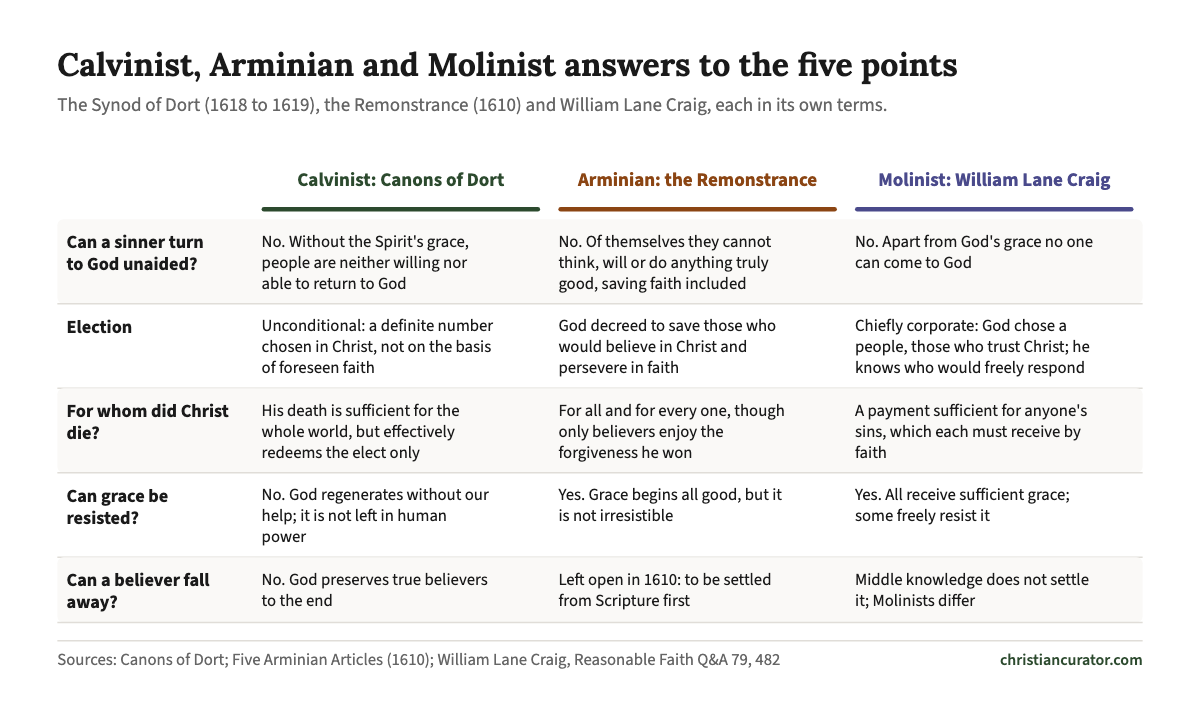
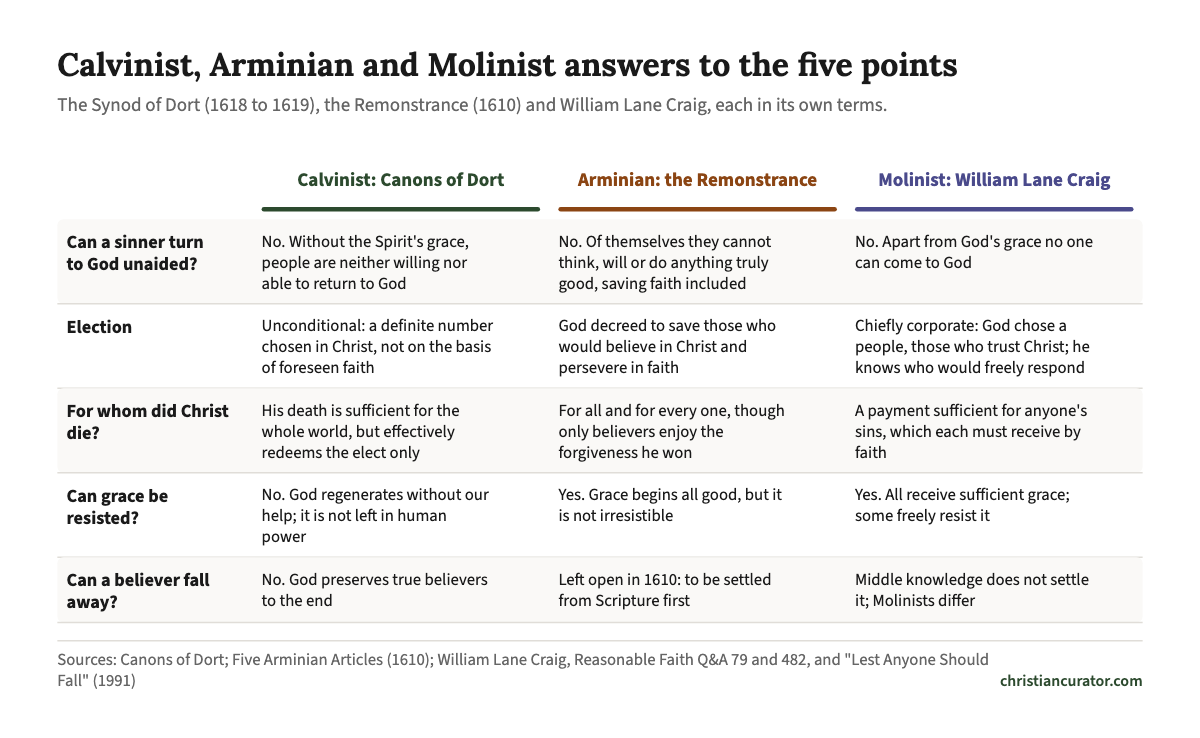
Predestination: source the Molinist perseverance cell to Craig himself
The cell ("Middle knowledge does not settle it; Molinists differ") rested
on Philip Congdon, a Free Grace critic, whose line was about Keathley's five
points in general; Q&A 482 says nothing on perseverance. Craig's 1991 paper
"Lest Anyone Should Fall" says it outright: "Molinism does not imply the
doctrine of the perseverance of the saints." Congdon and Paul Helm (a
Reformed critic used for the middle knowledge line, which Craig's Q&A 79
already covers) are dropped, so the Molinist column cites only a Molinist.
Note and share image source line updated; share image redrawn.

diff --git a/docs/topics/predestination-free-will/index.html b/docs/topics/predestination-free-will/index.html
@@ -508,14 +508,14 @@ main.cc-prose { max-width: 740px; margin: 0 auto; padding-top: 1.5rem; }
 <h2 class="cc-timeline-label">Side by Side</h2>
 <h3 class="cc-timeline-title">Dort, the Remonstrance and Molinism on the five disputed points</h3><p class="cc-timeline-intro">The five points of Calvinism began as the Synod of Dort&#x27;s answer to the five articles of the Remonstrants in 1610. Molinism adds a different question: what God knows about the free choices people would make. Each column follows its own source.</p>
 <figure class="cc-chart cc-timeline-fig">
-<svg class="cc-chart-svg cc-timeline-svg cc-chart-wide" viewBox="0 0 740 423" role="img" aria-labelledby="five-points-matrix-t five-points-matrix-d" font-family="'Source Sans 3', sans-serif"><title id="five-points-matrix-t">Calvinist, Arminian and Molinist answers to the five points</title><desc id="five-points-matrix-d">Calvinist: Canons of Dort. Can a sinner turn to God unaided?: No. Without the Spirit&#x27;s grace, people are neither willing nor able to return to God; Election: Unconditional: a definite number chosen in Christ, not on the basis of foreseen faith; For whom did Christ die?: His death is sufficient for the whole world, but effectively redeems the elect only; Can grace be resisted?: No. God regenerates without our help; it is not left in human power; Can a believer fall away?: No. God preserves true believers to the end. Arminian: the Remonstrance. Can a sinner turn to God unaided?: No. Of themselves they cannot think, will or do anything truly good, saving faith included; Election: God decreed to save those who would believe in Christ and persevere in faith; For whom did Christ die?: For all and for every one, though only believers enjoy the forgiveness he won; Can grace be resisted?: Yes. Grace begins all good, but it is not irresistible; Can a believer fall away?: Left open in 1610: to be settled from Scripture first. Molinist: William Lane Craig. Can a sinner turn to God unaided?: No. Apart from God&#x27;s grace no one can come to God; Election: Chiefly corporate: God chose a people, those who trust Christ; he knows who would freely respond; For whom did Christ die?: A payment sufficient for anyone&#x27;s sins, which each must receive by faith; Can grace be resisted?: Yes. All receive sufficient grace; some freely resist it; Can a believer fall away?: Middle knowledge does not settle it; Molinists differ.</desc><rect width="740" height="423" fill="#fff"/><text x="14.0" y="26.0" font-size="21" fill="#1a1a1a" font-weight="700" font-family="'Lora', Georgia, serif">Calvinist, Arminian and Molinist answers to the five points</text><text x="14.0" y="49.2" font-size="12.5" fill="#666">The Synod of Dort (1618 to 1619), the Remonstrance (1610) and William Lane Craig, each in its own terms.</text><text x="239.3" y="98.6" font-size="12.5" fill="#2C4A2E" font-weight="700" text-anchor="middle">Calvinist: Canons of Dort</text><rect x="148.0" y="112.2" width="182.7" height="3" rx="1.5" fill="#2C4A2E"/><text x="434.0" y="98.6" font-size="12.5" fill="#8B4513" font-weight="700" text-anchor="middle">Arminian: the Remonstrance</text><rect x="342.7" y="112.2" width="182.7" height="3" rx="1.5" fill="#8B4513"/><text x="628.7" y="98.6" font-size="12.5" fill="#4A4A8B" font-weight="700" text-anchor="middle">Molinist: William Lane Craig</text><rect x="537.3" y="112.2" width="182.7" height="3" rx="1.5" fill="#4A4A8B"/><rect x="14.0" y="120.2" width="712.0" height="55.4" rx="4" fill="#faf9f7"/><text x="20.0" y="139.2" font-size="12" fill="#1a1a1a" font-weight="700">Can a sinner turn</text><text x="20.0" y="153.7" font-size="12" fill="#1a1a1a" font-weight="700">to God unaided?</text><text x="148.0" y="138.2" font-size="11" fill="#1a1a1a">No. Without the Spirit&#x27;s grace,</text><text x="148.0" y="152.1" font-size="11" fill="#1a1a1a">people are neither willing nor</text><text x="148.0" y="165.8" font-size="11" fill="#1a1a1a">able to return to God</text><text x="342.7" y="138.2" font-size="11" fill="#1a1a1a">No. Of themselves they cannot</text><text x="342.7" y="152.1" font-size="11" fill="#1a1a1a">think, will or do anything truly</text><text x="342.7" y="165.8" font-size="11" fill="#1a1a1a">good, saving faith included</text><text x="537.3" y="138.2" font-size="11" fill="#1a1a1a">No. Apart from God&#x27;s grace no one</text><text x="537.3" y="152.1" font-size="11" fill="#1a1a1a">can come to God</text><line x1="14.0" x2="726.0" y1="175.7" y2="175.7" stroke="#e0ddd8"/><text x="20.0" y="194.7" font-size="12" fill="#1a1a1a" font-weight="700">Election</text><text x="148.0" y="193.7" font-size="11" fill="#1a1a1a">Unconditional: a definite number</text><text x="148.0" y="207.5" font-size="11" fill="#1a1a1a">chosen in Christ, not on the basis</text><text x="148.0" y="221.2" font-size="11" fill="#1a1a1a">of foreseen faith</text><text x="342.7" y="193.7" font-size="11" fill="#1a1a1a">God decreed to save those who</text><text x="342.7" y="207.5" font-size="11" fill="#1a1a1a">would believe in Christ and</text><text x="342.7" y="221.2" font-size="11" fill="#1a1a1a">persevere in faith</text><text x="537.3" y="193.7" font-size="11" fill="#1a1a1a">Chiefly corporate: God chose a</text><text x="537.3" y="207.5" font-size="11" fill="#1a1a1a">people, those who trust Christ; he</text><text x="537.3" y="221.2" font-size="11" fill="#1a1a1a">knows who would freely respond</text><line x1="14.0" x2="726.0" y1="231.1" y2="231.1" stroke="#e0ddd8"/><rect x="14.0" y="231.1" width="712.0" height="55.4" rx="4" fill="#faf9f7"/><text x="20.0" y="250.1" font-size="12" fill="#1a1a1a" font-weight="700">For whom did Christ</text><text x="20.0" y="264.4" font-size="12" fill="#1a1a1a" font-weight="700">die?</text><text x="148.0" y="249.1" font-size="11" fill="#1a1a1a">His death is sufficient for the</text><text x="148.0" y="262.9" font-size="11" fill="#1a1a1a">whole world, but effectively</text><text x="148.0" y="276.7" font-size="11" fill="#1a1a1a">redeems the elect only</text><text x="342.7" y="249.1" font-size="11" fill="#1a1a1a">For all and for every one, though</text><text x="342.7" y="262.9" font-size="11" fill="#1a1a1a">only believers enjoy the</text><text x="342.7" y="276.7" font-size="11" fill="#1a1a1a">forgiveness he won</text><text x="537.3" y="249.1" font-size="11" fill="#1a1a1a">A payment sufficient for anyone&#x27;s</text><text x="537.3" y="262.9" font-size="11" fill="#1a1a1a">sins, which each must receive by</text><text x="537.3" y="276.7" font-size="11" fill="#1a1a1a">faith</text><line x1="14.0" x2="726.0" y1="286.5" y2="286.5" stroke="#e0ddd8"/><text x="20.0" y="305.5" font-size="12" fill="#1a1a1a" font-weight="700">Can grace be</text><text x="20.0" y="319.9" font-size="12" fill="#1a1a1a" font-weight="700">resisted?</text><text x="148.0" y="304.5" font-size="11" fill="#1a1a1a">No. God regenerates without our</text><text x="148.0" y="318.3" font-size="11" fill="#1a1a1a">help; it is not left in human</text><text x="148.0" y="332.1" font-size="11" fill="#1a1a1a">power</text><text x="342.7" y="304.5" font-size="11" fill="#1a1a1a">Yes. Grace begins all good, but it</text><text x="342.7" y="318.3" font-size="11" fill="#1a1a1a">is not irresistible</text><text x="537.3" y="304.5" font-size="11" fill="#1a1a1a">Yes. All receive sufficient grace;</text><text x="537.3" y="318.3" font-size="11" fill="#1a1a1a">some freely resist it</text><line x1="14.0" x2="726.0" y1="341.9" y2="341.9" stroke="#e0ddd8"/><rect x="14.0" y="341.9" width="712.0" height="42.8" rx="4" fill="#faf9f7"/><text x="20.0" y="360.9" font-size="12" fill="#1a1a1a" font-weight="700">Can a believer fall</text><text x="20.0" y="375.2" font-size="12" fill="#1a1a1a" font-weight="700">away?</text><text x="148.0" y="359.9" font-size="11" fill="#1a1a1a">No. God preserves true believers</text><text x="148.0" y="373.7" font-size="11" fill="#1a1a1a">to the end</text><text x="342.7" y="359.9" font-size="11" fill="#1a1a1a">Left open in 1610: to be settled</text><text x="342.7" y="373.7" font-size="11" fill="#1a1a1a">from Scripture first</text><text x="537.3" y="359.9" font-size="11" fill="#1a1a1a">Middle knowledge does not settle</text><text x="537.3" y="373.7" font-size="11" fill="#1a1a1a">it; Molinists differ</text><line x1="14.0" x2="726.0" y1="384.7" y2="384.7" stroke="#e0ddd8"/><line x1="14" x2="726" y1="396.7" y2="396.7" stroke="#e0ddd8"/><text x="14.0" y="412.7" font-size="11" fill="#666">Sources: Canons of Dort; Five Arminian Articles (1610); William Lane Craig, Reasonable Faith Q&amp;A 79, 482</text><text x="726.0" y="412.7" font-size="10.5" fill="#2C4A2E" font-weight="600" text-anchor="end">christiancurator.com</text></svg>
-<svg class="cc-chart-svg cc-timeline-svg cc-chart-narrow" viewBox="0 0 360 851" role="img" aria-labelledby="five-points-matrix-n-t five-points-matrix-n-d" font-family="'Source Sans 3', sans-serif"><title id="five-points-matrix-n-t">Calvinist, Arminian and Molinist answers to the five points</title><desc id="five-points-matrix-n-d">Calvinist: Canons of Dort. Can a sinner turn to God unaided?: No. Without the Spirit&#x27;s grace, people are neither willing nor able to return to God; Election: Unconditional: a definite number chosen in Christ, not on the basis of foreseen faith; For whom did Christ die?: His death is sufficient for the whole world, but effectively redeems the elect only; Can grace be resisted?: No. God regenerates without our help; it is not left in human power; Can a believer fall away?: No. God preserves true believers to the end. Arminian: the Remonstrance. Can a sinner turn to God unaided?: No. Of themselves they cannot think, will or do anything truly good, saving faith included; Election: God decreed to save those who would believe in Christ and persevere in faith; For whom did Christ die?: For all and for every one, though only believers enjoy the forgiveness he won; Can grace be resisted?: Yes. Grace begins all good, but it is not irresistible; Can a believer fall away?: Left open in 1610: to be settled from Scripture first. Molinist: William Lane Craig. Can a sinner turn to God unaided?: No. Apart from God&#x27;s grace no one can come to God; Election: Chiefly corporate: God chose a people, those who trust Christ; he knows who would freely respond; For whom did Christ die?: A payment sufficient for anyone&#x27;s sins, which each must receive by faith; Can grace be resisted?: Yes. All receive sufficient grace; some freely resist it; Can a believer fall away?: Middle knowledge does not settle it; Molinists differ.</desc><rect width="360" height="851" fill="#fff"/><text x="14.0" y="26.0" font-size="19" fill="#1a1a1a" font-weight="700" font-family="'Lora', Georgia, serif">Calvinist, Arminian and Molinist</text><text x="14.0" y="49.8" font-size="19" fill="#1a1a1a" font-weight="700" font-family="'Lora', Georgia, serif">answers to the five points</text><text x="14.0" y="70.5" font-size="12.5" fill="#666">Dort (1618 to 1619), the Remonstrance (1610) and</text><text x="14.0" y="86.5" font-size="12.5" fill="#666">William Lane Craig, each in its own terms.</text><rect x="14.0" y="113.5" width="332.0" height="25.0" rx="4" fill="#eef2ec"/><text x="20.0" y="131.0" font-size="12.5" fill="#2C4A2E" font-weight="700">Turn to God unaided?</text><text x="16.0" y="158.0" font-size="11.5" fill="#2C4A2E" font-weight="700">Calvinist</text><text x="16.0" y="171.6" font-size="11.5" fill="#2C4A2E" font-weight="700">(Dort)</text><text x="114.0" y="158.0" font-size="11.5" fill="#1a1a1a">No: neither willing nor able without the</text><text x="114.0" y="172.5" font-size="11.5" fill="#1a1a1a">Spirit</text><line x1="16.0" x2="346.0" y1="176.5" y2="176.5" stroke="#e0ddd8" stroke-opacity="0.6"/><text x="16.0" y="195.0" font-size="11.5" fill="#8B4513" font-weight="700">Arminian (1610)</text><text x="114.0" y="195.0" font-size="11.5" fill="#1a1a1a">No: cannot of themselves believe</text><line x1="16.0" x2="346.0" y1="199.0" y2="199.0" stroke="#e0ddd8" stroke-opacity="0.6"/><text x="16.0" y="217.5" font-size="11.5" fill="#4A4A8B" font-weight="700">Molinist</text><text x="16.0" y="231.1" font-size="11.5" fill="#4A4A8B" font-weight="700">(Craig)</text><text x="114.0" y="217.5" font-size="11.5" fill="#1a1a1a">No: not apart from God&#x27;s grace</text><rect x="14.0" y="245.1" width="332.0" height="25.0" rx="4" fill="#eef2ec"/><text x="20.0" y="262.6" font-size="12.5" fill="#2C4A2E" font-weight="700">Election</text><text x="16.0" y="289.6" font-size="11.5" fill="#2C4A2E" font-weight="700">Calvinist</text><text x="16.0" y="303.2" font-size="11.5" fill="#2C4A2E" font-weight="700">(Dort)</text><text x="114.0" y="289.6" font-size="11.5" fill="#1a1a1a">Unconditional, not based on foreseen faith</text><line x1="16.0" x2="346.0" y1="306.3" y2="306.3" stroke="#e0ddd8" stroke-opacity="0.6"/><text x="16.0" y="324.8" font-size="11.5" fill="#8B4513" font-weight="700">Arminian (1610)</text><text x="114.0" y="324.8" font-size="11.5" fill="#1a1a1a">God chose to save those who believe and</text><text x="114.0" y="339.3" font-size="11.5" fill="#1a1a1a">persevere</text><line x1="16.0" x2="346.0" y1="343.3" y2="343.3" stroke="#e0ddd8" stroke-opacity="0.6"/><text x="16.0" y="361.8" font-size="11.5" fill="#4A4A8B" font-weight="700">Molinist</text><text x="16.0" y="375.3" font-size="11.5" fill="#4A4A8B" font-weight="700">(Craig)</text><text x="114.0" y="361.8" font-size="11.5" fill="#1a1a1a">Corporate: a people, those who trust</text><text x="114.0" y="376.3" font-size="11.5" fill="#1a1a1a">Christ</text><rect x="14.0" y="391.3" width="332.0" height="25.0" rx="4" fill="#eef2ec"/><text x="20.0" y="408.8" font-size="12.5" fill="#2C4A2E" font-weight="700">For whom did Christ die?</text><text x="16.0" y="435.8" font-size="11.5" fill="#2C4A2E" font-weight="700">Calvinist</text><text x="16.0" y="449.3" font-size="11.5" fill="#2C4A2E" font-weight="700">(Dort)</text><text x="114.0" y="435.8" font-size="11.5" fill="#1a1a1a">Sufficient for all; effective for the</text><text x="114.0" y="450.3" font-size="11.5" fill="#1a1a1a">elect</text><line x1="16.0" x2="346.0" y1="454.3" y2="454.3" stroke="#e0ddd8" stroke-opacity="0.6"/><text x="16.0" y="472.8" font-size="11.5" fill="#8B4513" font-weight="700">Arminian (1610)</text><text x="114.0" y="472.8" font-size="11.5" fill="#1a1a1a">For all; only believers receive it</text><line x1="16.0" x2="346.0" y1="476.8" y2="476.8" stroke="#e0ddd8" stroke-opacity="0.6"/><text x="16.0" y="495.3" font-size="11.5" fill="#4A4A8B" font-weight="700">Molinist</text><text x="16.0" y="508.8" font-size="11.5" fill="#4A4A8B" font-weight="700">(Craig)</text><text x="114.0" y="495.3" font-size="11.5" fill="#1a1a1a">Sufficient for anyone; received by faith</text><rect x="14.0" y="522.9" width="332.0" height="25.0" rx="4" fill="#eef2ec"/><text x="20.0" y="540.4" font-size="12.5" fill="#2C4A2E" font-weight="700">Can grace be resisted?</text><text x="16.0" y="567.4" font-size="11.5" fill="#2C4A2E" font-weight="700">Calvinist</text><text x="16.0" y="581.0" font-size="11.5" fill="#2C4A2E" font-weight="700">(Dort)</text><text x="114.0" y="567.4" font-size="11.5" fill="#1a1a1a">No: God regenerates without our help</text><line x1="16.0" x2="346.0" y1="584.1" y2="584.1" stroke="#e0ddd8" stroke-opacity="0.6"/><text x="16.0" y="602.6" font-size="11.5" fill="#8B4513" font-weight="700">Arminian (1610)</text><text x="114.0" y="602.6" font-size="11.5" fill="#1a1a1a">Yes: grace is not irresistible</text><line x1="16.0" x2="346.0" y1="606.6" y2="606.6" stroke="#e0ddd8" stroke-opacity="0.6"/><text x="16.0" y="625.1" font-size="11.5" fill="#4A4A8B" font-weight="700">Molinist</text><text x="16.0" y="638.6" font-size="11.5" fill="#4A4A8B" font-weight="700">(Craig)</text><text x="114.0" y="625.1" font-size="11.5" fill="#1a1a1a">Yes: sufficient grace can be resisted</text><rect x="14.0" y="652.7" width="332.0" height="25.0" rx="4" fill="#eef2ec"/><text x="20.0" y="670.2" font-size="12.5" fill="#2C4A2E" font-weight="700">Can a believer fall away?</text><text x="16.0" y="697.2" font-size="11.5" fill="#2C4A2E" font-weight="700">Calvinist</text><text x="16.0" y="710.8" font-size="11.5" fill="#2C4A2E" font-weight="700">(Dort)</text><text x="114.0" y="697.2" font-size="11.5" fill="#1a1a1a">No: God preserves them</text><line x1="16.0" x2="346.0" y1="713.8" y2="713.8" stroke="#e0ddd8" stroke-opacity="0.6"/><text x="16.0" y="732.3" font-size="11.5" fill="#8B4513" font-weight="700">Arminian (1610)</text><text x="114.0" y="732.3" font-size="11.5" fill="#1a1a1a">Left open in 1610</text><line x1="16.0" x2="346.0" y1="736.3" y2="736.3" stroke="#e0ddd8" stroke-opacity="0.6"/><text x="16.0" y="754.8" font-size="11.5" fill="#4A4A8B" font-weight="700">Molinist</text><text x="16.0" y="768.4" font-size="11.5" fill="#4A4A8B" font-weight="700">(Craig)</text><text x="114.0" y="754.8" font-size="11.5" fill="#1a1a1a">Not settled by Molinism itself</text><line x1="14" x2="346" y1="794.5" y2="794.5" stroke="#e0ddd8"/><text x="14.0" y="810.5" font-size="11" fill="#666">Sources: Canons of Dort; Five Arminian Articles (1610);</text><text x="14.0" y="824.5" font-size="11" fill="#666">William Lane Craig, Reasonable Faith Q&amp;A 79, 482</text><text x="346.0" y="841.5" font-size="10.5" fill="#2C4A2E" font-weight="600" text-anchor="end">christiancurator.com</text></svg>
+<svg class="cc-chart-svg cc-timeline-svg cc-chart-wide" viewBox="0 0 740 437" role="img" aria-labelledby="five-points-matrix-t five-points-matrix-d" font-family="'Source Sans 3', sans-serif"><title id="five-points-matrix-t">Calvinist, Arminian and Molinist answers to the five points</title><desc id="five-points-matrix-d">Calvinist: Canons of Dort. Can a sinner turn to God unaided?: No. Without the Spirit&#x27;s grace, people are neither willing nor able to return to God; Election: Unconditional: a definite number chosen in Christ, not on the basis of foreseen faith; For whom did Christ die?: His death is sufficient for the whole world, but effectively redeems the elect only; Can grace be resisted?: No. God regenerates without our help; it is not left in human power; Can a believer fall away?: No. God preserves true believers to the end. Arminian: the Remonstrance. Can a sinner turn to God unaided?: No. Of themselves they cannot think, will or do anything truly good, saving faith included; Election: God decreed to save those who would believe in Christ and persevere in faith; For whom did Christ die?: For all and for every one, though only believers enjoy the forgiveness he won; Can grace be resisted?: Yes. Grace begins all good, but it is not irresistible; Can a believer fall away?: Left open in 1610: to be settled from Scripture first. Molinist: William Lane Craig. Can a sinner turn to God unaided?: No. Apart from God&#x27;s grace no one can come to God; Election: Chiefly corporate: God chose a people, those who trust Christ; he knows who would freely respond; For whom did Christ die?: A payment sufficient for anyone&#x27;s sins, which each must receive by faith; Can grace be resisted?: Yes. All receive sufficient grace; some freely resist it; Can a believer fall away?: Middle knowledge does not settle it; Molinists differ.</desc><rect width="740" height="437" fill="#fff"/><text x="14.0" y="26.0" font-size="21" fill="#1a1a1a" font-weight="700" font-family="'Lora', Georgia, serif">Calvinist, Arminian and Molinist answers to the five points</text><text x="14.0" y="49.2" font-size="12.5" fill="#666">The Synod of Dort (1618 to 1619), the Remonstrance (1610) and William Lane Craig, each in its own terms.</text><text x="239.3" y="98.6" font-size="12.5" fill="#2C4A2E" font-weight="700" text-anchor="middle">Calvinist: Canons of Dort</text><rect x="148.0" y="112.2" width="182.7" height="3" rx="1.5" fill="#2C4A2E"/><text x="434.0" y="98.6" font-size="12.5" fill="#8B4513" font-weight="700" text-anchor="middle">Arminian: the Remonstrance</text><rect x="342.7" y="112.2" width="182.7" height="3" rx="1.5" fill="#8B4513"/><text x="628.7" y="98.6" font-size="12.5" fill="#4A4A8B" font-weight="700" text-anchor="middle">Molinist: William Lane Craig</text><rect x="537.3" y="112.2" width="182.7" height="3" rx="1.5" fill="#4A4A8B"/><rect x="14.0" y="120.2" width="712.0" height="55.4" rx="4" fill="#faf9f7"/><text x="20.0" y="139.2" font-size="12" fill="#1a1a1a" font-weight="700">Can a sinner turn</text><text x="20.0" y="153.7" font-size="12" fill="#1a1a1a" font-weight="700">to God unaided?</text><text x="148.0" y="138.2" font-size="11" fill="#1a1a1a">No. Without the Spirit&#x27;s grace,</text><text x="148.0" y="152.1" font-size="11" fill="#1a1a1a">people are neither willing nor</text><text x="148.0" y="165.8" font-size="11" fill="#1a1a1a">able to return to God</text><text x="342.7" y="138.2" font-size="11" fill="#1a1a1a">No. Of themselves they cannot</text><text x="342.7" y="152.1" font-size="11" fill="#1a1a1a">think, will or do anything truly</text><text x="342.7" y="165.8" font-size="11" fill="#1a1a1a">good, saving faith included</text><text x="537.3" y="138.2" font-size="11" fill="#1a1a1a">No. Apart from God&#x27;s grace no one</text><text x="537.3" y="152.1" font-size="11" fill="#1a1a1a">can come to God</text><line x1="14.0" x2="726.0" y1="175.7" y2="175.7" stroke="#e0ddd8"/><text x="20.0" y="194.7" font-size="12" fill="#1a1a1a" font-weight="700">Election</text><text x="148.0" y="193.7" font-size="11" fill="#1a1a1a">Unconditional: a definite number</text><text x="148.0" y="207.5" font-size="11" fill="#1a1a1a">chosen in Christ, not on the basis</text><text x="148.0" y="221.2" font-size="11" fill="#1a1a1a">of foreseen faith</text><text x="342.7" y="193.7" font-size="11" fill="#1a1a1a">God decreed to save those who</text><text x="342.7" y="207.5" font-size="11" fill="#1a1a1a">would believe in Christ and</text><text x="342.7" y="221.2" font-size="11" fill="#1a1a1a">persevere in faith</text><text x="537.3" y="193.7" font-size="11" fill="#1a1a1a">Chiefly corporate: God chose a</text><text x="537.3" y="207.5" font-size="11" fill="#1a1a1a">people, those who trust Christ; he</text><text x="537.3" y="221.2" font-size="11" fill="#1a1a1a">knows who would freely respond</text><line x1="14.0" x2="726.0" y1="231.1" y2="231.1" stroke="#e0ddd8"/><rect x="14.0" y="231.1" width="712.0" height="55.4" rx="4" fill="#faf9f7"/><text x="20.0" y="250.1" font-size="12" fill="#1a1a1a" font-weight="700">For whom did Christ</text><text x="20.0" y="264.4" font-size="12" fill="#1a1a1a" font-weight="700">die?</text><text x="148.0" y="249.1" font-size="11" fill="#1a1a1a">His death is sufficient for the</text><text x="148.0" y="262.9" font-size="11" fill="#1a1a1a">whole world, but effectively</text><text x="148.0" y="276.7" font-size="11" fill="#1a1a1a">redeems the elect only</text><text x="342.7" y="249.1" font-size="11" fill="#1a1a1a">For all and for every one, though</text><text x="342.7" y="262.9" font-size="11" fill="#1a1a1a">only believers enjoy the</text><text x="342.7" y="276.7" font-size="11" fill="#1a1a1a">forgiveness he won</text><text x="537.3" y="249.1" font-size="11" fill="#1a1a1a">A payment sufficient for anyone&#x27;s</text><text x="537.3" y="262.9" font-size="11" fill="#1a1a1a">sins, which each must receive by</text><text x="537.3" y="276.7" font-size="11" fill="#1a1a1a">faith</text><line x1="14.0" x2="726.0" y1="286.5" y2="286.5" stroke="#e0ddd8"/><text x="20.0" y="305.5" font-size="12" fill="#1a1a1a" font-weight="700">Can grace be</text><text x="20.0" y="319.9" font-size="12" fill="#1a1a1a" font-weight="700">resisted?</text><text x="148.0" y="304.5" font-size="11" fill="#1a1a1a">No. God regenerates without our</text><text x="148.0" y="318.3" font-size="11" fill="#1a1a1a">help; it is not left in human</text><text x="148.0" y="332.1" font-size="11" fill="#1a1a1a">power</text><text x="342.7" y="304.5" font-size="11" fill="#1a1a1a">Yes. Grace begins all good, but it</text><text x="342.7" y="318.3" font-size="11" fill="#1a1a1a">is not irresistible</text><text x="537.3" y="304.5" font-size="11" fill="#1a1a1a">Yes. All receive sufficient grace;</text><text x="537.3" y="318.3" font-size="11" fill="#1a1a1a">some freely resist it</text><line x1="14.0" x2="726.0" y1="341.9" y2="341.9" stroke="#e0ddd8"/><rect x="14.0" y="341.9" width="712.0" height="42.8" rx="4" fill="#faf9f7"/><text x="20.0" y="360.9" font-size="12" fill="#1a1a1a" font-weight="700">Can a believer fall</text><text x="20.0" y="375.2" font-size="12" fill="#1a1a1a" font-weight="700">away?</text><text x="148.0" y="359.9" font-size="11" fill="#1a1a1a">No. God preserves true believers</text><text x="148.0" y="373.7" font-size="11" fill="#1a1a1a">to the end</text><text x="342.7" y="359.9" font-size="11" fill="#1a1a1a">Left open in 1610: to be settled</text><text x="342.7" y="373.7" font-size="11" fill="#1a1a1a">from Scripture first</text><text x="537.3" y="359.9" font-size="11" fill="#1a1a1a">Middle knowledge does not settle</text><text x="537.3" y="373.7" font-size="11" fill="#1a1a1a">it; Molinists differ</text><line x1="14.0" x2="726.0" y1="384.7" y2="384.7" stroke="#e0ddd8"/><line x1="14" x2="726" y1="396.7" y2="396.7" stroke="#e0ddd8"/><text x="14.0" y="412.7" font-size="11" fill="#666">Sources: Canons of Dort; Five Arminian Articles (1610); William Lane Craig, Reasonable Faith Q&amp;A 79 and 482, and &quot;Lest Anyone Should</text><text x="14.0" y="426.7" font-size="11" fill="#666">Fall&quot; (1991)</text><text x="726.0" y="426.7" font-size="10.5" fill="#2C4A2E" font-weight="600" text-anchor="end">christiancurator.com</text></svg>
+<svg class="cc-chart-svg cc-timeline-svg cc-chart-narrow" viewBox="0 0 360 865" role="img" aria-labelledby="five-points-matrix-n-t five-points-matrix-n-d" font-family="'Source Sans 3', sans-serif"><title id="five-points-matrix-n-t">Calvinist, Arminian and Molinist answers to the five points</title><desc id="five-points-matrix-n-d">Calvinist: Canons of Dort. Can a sinner turn to God unaided?: No. Without the Spirit&#x27;s grace, people are neither willing nor able to return to God; Election: Unconditional: a definite number chosen in Christ, not on the basis of foreseen faith; For whom did Christ die?: His death is sufficient for the whole world, but effectively redeems the elect only; Can grace be resisted?: No. God regenerates without our help; it is not left in human power; Can a believer fall away?: No. God preserves true believers to the end. Arminian: the Remonstrance. Can a sinner turn to God unaided?: No. Of themselves they cannot think, will or do anything truly good, saving faith included; Election: God decreed to save those who would believe in Christ and persevere in faith; For whom did Christ die?: For all and for every one, though only believers enjoy the forgiveness he won; Can grace be resisted?: Yes. Grace begins all good, but it is not irresistible; Can a believer fall away?: Left open in 1610: to be settled from Scripture first. Molinist: William Lane Craig. Can a sinner turn to God unaided?: No. Apart from God&#x27;s grace no one can come to God; Election: Chiefly corporate: God chose a people, those who trust Christ; he knows who would freely respond; For whom did Christ die?: A payment sufficient for anyone&#x27;s sins, which each must receive by faith; Can grace be resisted?: Yes. All receive sufficient grace; some freely resist it; Can a believer fall away?: Middle knowledge does not settle it; Molinists differ.</desc><rect width="360" height="865" fill="#fff"/><text x="14.0" y="26.0" font-size="19" fill="#1a1a1a" font-weight="700" font-family="'Lora', Georgia, serif">Calvinist, Arminian and Molinist</text><text x="14.0" y="49.8" font-size="19" fill="#1a1a1a" font-weight="700" font-family="'Lora', Georgia, serif">answers to the five points</text><text x="14.0" y="70.5" font-size="12.5" fill="#666">Dort (1618 to 1619), the Remonstrance (1610) and</text><text x="14.0" y="86.5" font-size="12.5" fill="#666">William Lane Craig, each in its own terms.</text><rect x="14.0" y="113.5" width="332.0" height="25.0" rx="4" fill="#eef2ec"/><text x="20.0" y="131.0" font-size="12.5" fill="#2C4A2E" font-weight="700">Turn to God unaided?</text><text x="16.0" y="158.0" font-size="11.5" fill="#2C4A2E" font-weight="700">Calvinist</text><text x="16.0" y="171.6" font-size="11.5" fill="#2C4A2E" font-weight="700">(Dort)</text><text x="114.0" y="158.0" font-size="11.5" fill="#1a1a1a">No: neither willing nor able without the</text><text x="114.0" y="172.5" font-size="11.5" fill="#1a1a1a">Spirit</text><line x1="16.0" x2="346.0" y1="176.5" y2="176.5" stroke="#e0ddd8" stroke-opacity="0.6"/><text x="16.0" y="195.0" font-size="11.5" fill="#8B4513" font-weight="700">Arminian (1610)</text><text x="114.0" y="195.0" font-size="11.5" fill="#1a1a1a">No: cannot of themselves believe</text><line x1="16.0" x2="346.0" y1="199.0" y2="199.0" stroke="#e0ddd8" stroke-opacity="0.6"/><text x="16.0" y="217.5" font-size="11.5" fill="#4A4A8B" font-weight="700">Molinist</text><text x="16.0" y="231.1" font-size="11.5" fill="#4A4A8B" font-weight="700">(Craig)</text><text x="114.0" y="217.5" font-size="11.5" fill="#1a1a1a">No: not apart from God&#x27;s grace</text><rect x="14.0" y="245.1" width="332.0" height="25.0" rx="4" fill="#eef2ec"/><text x="20.0" y="262.6" font-size="12.5" fill="#2C4A2E" font-weight="700">Election</text><text x="16.0" y="289.6" font-size="11.5" fill="#2C4A2E" font-weight="700">Calvinist</text><text x="16.0" y="303.2" font-size="11.5" fill="#2C4A2E" font-weight="700">(Dort)</text><text x="114.0" y="289.6" font-size="11.5" fill="#1a1a1a">Unconditional, not based on foreseen faith</text><line x1="16.0" x2="346.0" y1="306.3" y2="306.3" stroke="#e0ddd8" stroke-opacity="0.6"/><text x="16.0" y="324.8" font-size="11.5" fill="#8B4513" font-weight="700">Arminian (1610)</text><text x="114.0" y="324.8" font-size="11.5" fill="#1a1a1a">God chose to save those who believe and</text><text x="114.0" y="339.3" font-size="11.5" fill="#1a1a1a">persevere</text><line x1="16.0" x2="346.0" y1="343.3" y2="343.3" stroke="#e0ddd8" stroke-opacity="0.6"/><text x="16.0" y="361.8" font-size="11.5" fill="#4A4A8B" font-weight="700">Molinist</text><text x="16.0" y="375.3" font-size="11.5" fill="#4A4A8B" font-weight="700">(Craig)</text><text x="114.0" y="361.8" font-size="11.5" fill="#1a1a1a">Corporate: a people, those who trust</text><text x="114.0" y="376.3" font-size="11.5" fill="#1a1a1a">Christ</text><rect x="14.0" y="391.3" width="332.0" height="25.0" rx="4" fill="#eef2ec"/><text x="20.0" y="408.8" font-size="12.5" fill="#2C4A2E" font-weight="700">For whom did Christ die?</text><text x="16.0" y="435.8" font-size="11.5" fill="#2C4A2E" font-weight="700">Calvinist</text><text x="16.0" y="449.3" font-size="11.5" fill="#2C4A2E" font-weight="700">(Dort)</text><text x="114.0" y="435.8" font-size="11.5" fill="#1a1a1a">Sufficient for all; effective for the</text><text x="114.0" y="450.3" font-size="11.5" fill="#1a1a1a">elect</text><line x1="16.0" x2="346.0" y1="454.3" y2="454.3" stroke="#e0ddd8" stroke-opacity="0.6"/><text x="16.0" y="472.8" font-size="11.5" fill="#8B4513" font-weight="700">Arminian (1610)</text><text x="114.0" y="472.8" font-size="11.5" fill="#1a1a1a">For all; only believers receive it</text><line x1="16.0" x2="346.0" y1="476.8" y2="476.8" stroke="#e0ddd8" stroke-opacity="0.6"/><text x="16.0" y="495.3" font-size="11.5" fill="#4A4A8B" font-weight="700">Molinist</text><text x="16.0" y="508.8" font-size="11.5" fill="#4A4A8B" font-weight="700">(Craig)</text><text x="114.0" y="495.3" font-size="11.5" fill="#1a1a1a">Sufficient for anyone; received by faith</text><rect x="14.0" y="522.9" width="332.0" height="25.0" rx="4" fill="#eef2ec"/><text x="20.0" y="540.4" font-size="12.5" fill="#2C4A2E" font-weight="700">Can grace be resisted?</text><text x="16.0" y="567.4" font-size="11.5" fill="#2C4A2E" font-weight="700">Calvinist</text><text x="16.0" y="581.0" font-size="11.5" fill="#2C4A2E" font-weight="700">(Dort)</text><text x="114.0" y="567.4" font-size="11.5" fill="#1a1a1a">No: God regenerates without our help</text><line x1="16.0" x2="346.0" y1="584.1" y2="584.1" stroke="#e0ddd8" stroke-opacity="0.6"/><text x="16.0" y="602.6" font-size="11.5" fill="#8B4513" font-weight="700">Arminian (1610)</text><text x="114.0" y="602.6" font-size="11.5" fill="#1a1a1a">Yes: grace is not irresistible</text><line x1="16.0" x2="346.0" y1="606.6" y2="606.6" stroke="#e0ddd8" stroke-opacity="0.6"/><text x="16.0" y="625.1" font-size="11.5" fill="#4A4A8B" font-weight="700">Molinist</text><text x="16.0" y="638.6" font-size="11.5" fill="#4A4A8B" font-weight="700">(Craig)</text><text x="114.0" y="625.1" font-size="11.5" fill="#1a1a1a">Yes: sufficient grace can be resisted</text><rect x="14.0" y="652.7" width="332.0" height="25.0" rx="4" fill="#eef2ec"/><text x="20.0" y="670.2" font-size="12.5" fill="#2C4A2E" font-weight="700">Can a believer fall away?</text><text x="16.0" y="697.2" font-size="11.5" fill="#2C4A2E" font-weight="700">Calvinist</text><text x="16.0" y="710.8" font-size="11.5" fill="#2C4A2E" font-weight="700">(Dort)</text><text x="114.0" y="697.2" font-size="11.5" fill="#1a1a1a">No: God preserves them</text><line x1="16.0" x2="346.0" y1="713.8" y2="713.8" stroke="#e0ddd8" stroke-opacity="0.6"/><text x="16.0" y="732.3" font-size="11.5" fill="#8B4513" font-weight="700">Arminian (1610)</text><text x="114.0" y="732.3" font-size="11.5" fill="#1a1a1a">Left open in 1610</text><line x1="16.0" x2="346.0" y1="736.3" y2="736.3" stroke="#e0ddd8" stroke-opacity="0.6"/><text x="16.0" y="754.8" font-size="11.5" fill="#4A4A8B" font-weight="700">Molinist</text><text x="16.0" y="768.4" font-size="11.5" fill="#4A4A8B" font-weight="700">(Craig)</text><text x="114.0" y="754.8" font-size="11.5" fill="#1a1a1a">Not settled by Molinism itself</text><line x1="14" x2="346" y1="794.5" y2="794.5" stroke="#e0ddd8"/><text x="14.0" y="810.5" font-size="11" fill="#666">Sources: Canons of Dort; Five Arminian Articles (1610);</text><text x="14.0" y="824.5" font-size="11" fill="#666">William Lane Craig, Reasonable Faith Q&amp;A 79 and 482, and &quot;Lest</text><text x="14.0" y="838.5" font-size="11" fill="#666">Anyone Should Fall&quot; (1991)</text><text x="346.0" y="855.5" font-size="10.5" fill="#2C4A2E" font-weight="600" text-anchor="end">christiancurator.com</text></svg>
 <figcaption>All three hold that no one comes to God without his grace. They part over whether election rests on foreseen faith, for whom Christ died, whether grace can be resisted, and whether a believer can fall away.</figcaption>
 <p class="cc-timeline-common"><strong>Common ground.</strong> All three begin with grace: Dort, the Remonstrants and Craig agree that no fallen person comes to God without it. Craig also quotes the Westminster Confession&#x27;s statement that God ordains whatever comes to pass without taking away the liberty of the creature, and says, &quot;Now this is precisely what the Molinist believes!&quot; (<a href="https://www.reasonablefaith.org/writings/question-answer/molinism-vs.-calvinism" target="_blank" rel="noopener" data-pos="topic-timeline">Reasonable Faith, 2010</a>)</p>
 <div class="cc-timeline-key"><div class="cc-timeline-sub">Where they differ</div><ul><li>Election: Dort says God chose for the purpose of faith, not because of foreseen faith; the Remonstrants tie election to those who would believe and persevere.</li><li>Atonement: all three call Christ&#x27;s death enough for anyone. Dort says it effectively redeems the elect only; the Remonstrants and Craig say it is received by faith.</li><li>Grace: the Remonstrants and Craig say it can be resisted; Dort says regeneration is not left in human power.</li><li>Molinism&#x27;s own claim is about God&#x27;s knowledge: he knows what each person would freely do in any circumstance and orders the world with that knowledge.</li><li>Molinism is not a full five point system. Craig says middle knowledge could even be paired with a limited atonement.</li></ul></div>
 <details class="cc-chart-data"><summary>Table version</summary><div class="cc-chart-scroll"><table class="cc-timeline-table cc-chart-stack"><caption>Calvinist, Arminian and Molinist answers to the five points</caption><thead><tr><th scope="col">Point</th><th scope="col">Calvinist: Canons of Dort</th><th scope="col">Arminian: the Remonstrance</th><th scope="col">Molinist: William Lane Craig</th></tr></thead><tbody><tr><th scope="row">Can a sinner turn to God unaided?</th><td data-label="Calvinist: Canons of Dort">No. Without the Spirit&#x27;s grace, people are neither willing nor able to return to God</td><td data-label="Arminian: the Remonstrance">No. Of themselves they cannot think, will or do anything truly good, saving faith included</td><td data-label="Molinist: William Lane Craig">No. Apart from God&#x27;s grace no one can come to God</td></tr><tr><th scope="row">Election</th><td data-label="Calvinist: Canons of Dort">Unconditional: a definite number chosen in Christ, not on the basis of foreseen faith</td><td data-label="Arminian: the Remonstrance">God decreed to save those who would believe in Christ and persevere in faith</td><td data-label="Molinist: William Lane Craig">Chiefly corporate: God chose a people, those who trust Christ; he knows who would freely respond</td></tr><tr><th scope="row">For whom did Christ die?</th><td data-label="Calvinist: Canons of Dort">His death is sufficient for the whole world, but effectively redeems the elect only</td><td data-label="Arminian: the Remonstrance">For all and for every one, though only believers enjoy the forgiveness he won</td><td data-label="Molinist: William Lane Craig">A payment sufficient for anyone&#x27;s sins, which each must receive by faith</td></tr><tr><th scope="row">Can grace be resisted?</th><td data-label="Calvinist: Canons of Dort">No. God regenerates without our help; it is not left in human power</td><td data-label="Arminian: the Remonstrance">Yes. Grace begins all good, but it is not irresistible</td><td data-label="Molinist: William Lane Craig">Yes. All receive sufficient grace; some freely resist it</td></tr><tr><th scope="row">Can a believer fall away?</th><td data-label="Calvinist: Canons of Dort">No. God preserves true believers to the end</td><td data-label="Arminian: the Remonstrance">Left open in 1610: to be settled from Scripture first</td><td data-label="Molinist: William Lane Craig">Middle knowledge does not settle it; Molinists differ</td></tr></tbody></table></div></details>
 <div class="cc-timeline-voices"><div class="cc-timeline-sub">Sources for each column</div><ul><li><span class="cc-timeline-swatch" style="background:#2C4A2E"></span><strong>Calvinist: Canons of Dort:</strong> Synod of Dort, Christian Reformed Church in North America, <a href="https://www.crcna.org/welcome/beliefs/confessions/canons-dort" target="_blank" rel="noopener" data-pos="topic-timeline">Canons of Dort (1618 to 1619)</a></li><li><span class="cc-timeline-swatch" style="background:#8B4513"></span><strong>Arminian: the Remonstrance:</strong> The Remonstrants, Christian Classics Ethereal Library, <a href="https://www.ccel.org/ccel/schaff/creeds3.iv.xv.html" target="_blank" rel="noopener" data-pos="topic-timeline">The Five Arminian Articles (1610)</a> (1610)</li><li><span class="cc-timeline-swatch" style="background:#4A4A8B"></span><strong>Molinist: William Lane Craig:</strong> William Lane Craig, Reasonable Faith, <a href="https://www.reasonablefaith.org/writings/question-answer/molinism-and-divine-election" target="_blank" rel="noopener" data-pos="topic-timeline">Molinism and Divine Election (Q&amp;A 79)</a> (2008)</li></ul></div>
-<p class="cc-chart-source">Cells paraphrase each source; the perseverance cell for Molinism draws on Craig&#x27;s Q&amp;A 482 and Philip Congdon&#x27;s 2019 paper. No view is presented here as the answer. Chart by Christian Curator.</p>
+<p class="cc-chart-source">Cells paraphrase each source; the Molinist cells also draw on Craig&#x27;s Q&amp;A 482 (atonement) and his 1991 paper &quot;Lest Anyone Should Fall&quot; (perseverance). No view is presented here as the answer. Chart by Christian Curator.</p>
 </figure>
 </section>
 <!-- CC-TIMELINE:five-points-matrix:END -->
